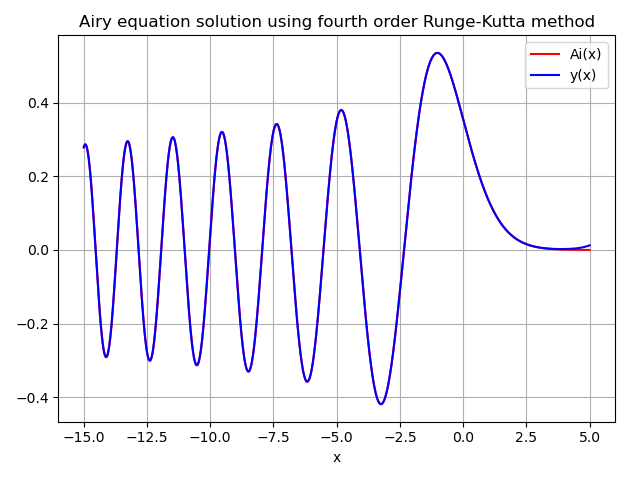
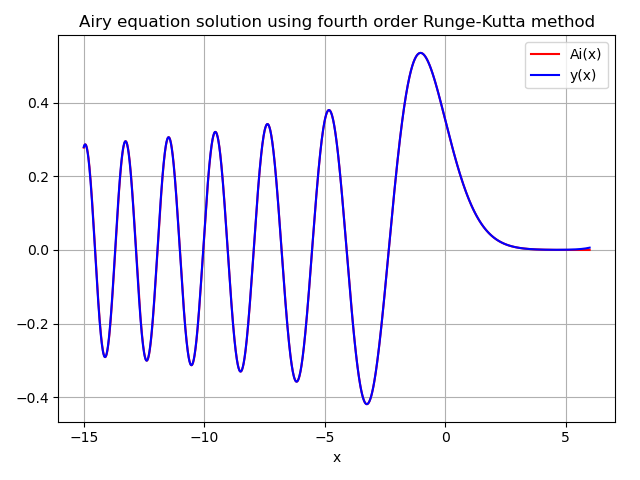
series not conveging beyond 10

diff --git a/2/problem2.py b/2/problem2.py
@@ -10,16 +10,15 @@ from math import factorial as fact
 from datetime import datetime
 
 startTime = datetime.now()
-
+"""
 # parameters
 a = 0 
-# y0 = 1/(pow(3, 2/3)*gamma(2/3))         # for Ai(x)
-# dy0 = -1/(pow(3, 1/3)*gamma(1/3))       # for Ai(x)
-y0 = 1/(pow(3, 1/6)*gamma(2/3))         # for Bi(x)
-dy0 = pow(3, 1/6)/gamma(1/3)            # for Bi(x)
+y0 = 1/(pow(3, 2/3)*gamma(2/3))         # for Ai(x)
+dy0 = -1/(pow(3, 1/3)*gamma(1/3))       # for Ai(x)
+# y0 = 1/(pow(3, 1/6)*gamma(2/3))         # for Bi(x)
+# dy0 = pow(3, 1/6)/gamma(1/3)            # for Bi(x)
 
 # solving the Airy equation using central difference
-"""
 def cntrl(xi, xf, yi, dyi, steps) :
     ''' solves the Airy equation y'' = xy
     xi : initial x datapoint, xf : final x datapoint, yi : initial y datapoint, dyi : derivativative initial data, steps : number of iterations,
@@ -57,15 +56,13 @@ def frwrd(xi, xf, yi, dyi, steps) :
 
     return x, y
 
-xg, yg = cntrl(a, 2, y0, dy0, 1000)      # x range greater than 0
+xg, yg = cntrl(a, 6, y0, dy0, 100000)      # x range greater than 0
 xl, yl = cntrl(a, -15, y0, dy0, 1500)    # x range less than 0
 
 x = np.append(xl[::-1], xg[1::])
 y = np.append(yl[::-1], yg[1::])
+ai, aip, bi, bip = airy(x)
 """
-v = [-10000, -100, -1, 1, 100, 10000]
-ai, aip, bi, bip = airy(v)
-
 # approximating the Airy equation with the series solution
 def airy_first(x, y) :
     ''' returns the number of terms required in the power series to approximate the Airy function of the first kind at x and and the value of Ai(x) '''
@@ -80,42 +77,53 @@ def airy_first(x, y) :
         else:
             s += 0
 
-        if abs(s - y) < 1e-3 :
+        if abs(s - y) < 1e-4 :
             break
         n += 1
-    return n, s
+    return s, n+1
 
 def airy_second(x, y) :
-    ''' returns the number of terms required in the power series to approximate the Airy function of the first kind at x and and the value of Ai(x) '''
+    ''' returns the number of terms required in the print("%f\t%f" % airy_first(1, ai[3]), ai[3])
+power series to approximate the Airy function of the first kind at x and and the value of Ai(x) '''
 
     s = 0.0
     n = 0
     while True :
-        s += pow(3, -1/6)*pow(x, n)/(pow(3, 2*n/3)*fact(n/3)*gamma(n/3 + 2/3))*(n%3 == 0) - pow(3, -5/6)*pow(x, n)/(pow(3, 2*(n-1)/3)*fact((n-1)/3)*gamma(n/3 + 1))*(n%3 == 1) + 0*(n%3 == 2)
+        if n%3 == 0 :
+            s += pow(3, -1/6)*pow(x, n)/(pow(3, 2*n/3)*fact(n/3)*gamma(n/3 + 2/3))  
+        elif n%3 == 1 :
+            s += -pow(3, -5/6)*pow(x, n)/(pow(3, 2*(n-1)/3)*fact((n-1)/3)*gamma(n/3 + 1))
+        else:
+            s += 0
 
-        if abs(s - y) < 1e-3 :
+        if abs(s - y) < 1e-4 :
             break
         n += 1
-    return n, s
-x=1
-s=0
-for n in range(600) :
-    if n%3 == 0 :
-            s += pow(3, -2/3)*pow(x, n)/(pow(3, 2*n/3)*fact(n/3)*gamma(n/3 + 2/3))  
-    elif n%3 == 1 :
-        s += -pow(3, -4/3)*pow(x, n)/(pow(3, 2*(n-1)/3)*fact((n-1)/3)*gamma(n/3 + 1))
-    else:
-        s += 0
-print(s, ai[4])
+    return s, n+1
+
+v = [-10000, -100, -10, -1, 0, 1, 10, 100, 10000]
+ai, aip, bi, bip = airy(v)
+
+print("x\t Ai(x)\t\t approximation\t steps")
+for i in range(2, 7) :
+    approx, terms_reqd = airy_first(v[i], ai[i])
+#    print("{}\t {:.5f}\t  {:.5f}\t {}".format(v[i], ai[i], approx, terms_reqd))
+    print("% d\t% .5f\t% .5f\t %d" % (v[i], ai[i], approx, terms_reqd))
+
+# print("\nx\t Bi(x)\t\t approximation\t steps")
+# for i in range(3, len(v)-3) :
+#     approx, terms_reqd = airy_second(v[i], bi[i])
+#     print("% d\t% .5f\t% .5f\t %d" % (v[i], bi[i], approx, terms_reqd))
+print(airy_second(1, bi[5]))
 
 endTime = datetime.now()
-print("Execution time : ", endTime - startTime)
+print("\nExecution time : ", endTime - startTime)
 
 # plt.plot(x, ai, 'r', label='Ai(x)')
 # plt.plot(x, bi, 'r', label='Bi(x)')
 # plt.plot(x, y, 'b', label='y(x)')
 # plt.ylim(-0.5, 0.6)             # for Ai(x)
-# plt.ylim(-0.6, 4)                 # for Bi(x)
+# plt.ylim(-0.6, 4)               # for Bi(x)
 # plt.xlabel("x")
 # plt.title("Airy equation solution using central difference method")
 # plt.grid()

diff --git a/2/using_rk.py b/2/using_rk.py
@@ -9,9 +9,9 @@ startTime = datetime.now()
 # parameters
 a = 0
 bl = -15
-bg = 5
+bg = 6
 Nl = 1500
-Ng = 5000
+Ng = 100000
 xl = np.linspace(a, bl, Nl)
 xg = np.linspace(a, bg, Ng)
 hl = (bl - a)/Nl
